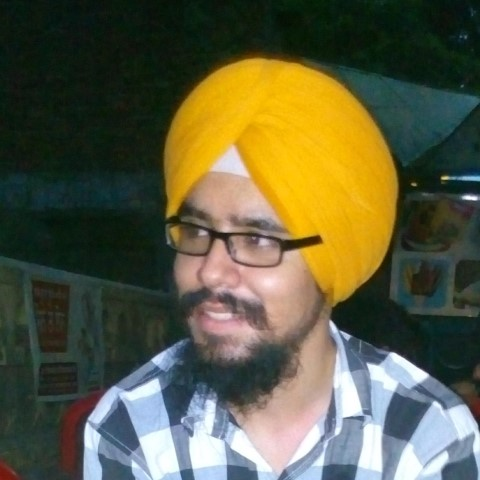
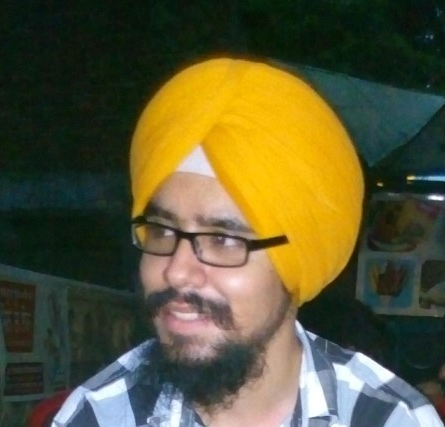
fix sections

diff --git a/index.html b/index.html
@@ -28,7 +28,7 @@
     <section id="home" class="hero_section container change_grid" id="home">
       <div class="hero_description">
         <h1>Rajwinder Singh</h1>
-        <h2>A web Developer</h2>
+        <h3>A web Developer</h3>
         <button class="button_primary">Contact</button>
       </div>
       <div class="image_box">
@@ -47,8 +47,7 @@
           <img
             src="./src/images/Profile-img.jpg"
             alt="Profile pic"
-            height="200px"
-            width="200px"
+            width="100%"
           />
         </div>
         <h2>I’m Rajwinder</h2>
@@ -57,10 +56,10 @@
           during college. My love for creating impactful digital experiences
           drives my dream of becoming a recognized programmer, developing
           applications that make a difference. Here’s a bit more about my
-          journey, skills, and projects!
+          skills, and projects!
         </p>
       </div>
-      <div class="grid grid_col-2">
+      <div class="">
         <div class="icons_block">
           <div class="all_icons">
             <div>
@@ -137,8 +136,94 @@
         </div>
       </div>
     </section>
+    <div class="line container"></div>
     <section id="skills" class="skills_section container">
-      
+      <h2>Skills and Experiences</h2>
+      <div class="grid grid_col-2">
+        <div class="skill_description">
+          <h3>Frontend skills</h3>
+          <p>
+            with expertise in HTML5, CSS3, and JavaScript (ES6+), bringing ideas
+            to life on the web. Skilled in utilizing popular frameworks like
+            jQuery and React for dynamic, interactive experiences, and adept
+            with responsive design through Tailwind CSS and Bootstrap to ensure
+            visually appealing layouts across devices. and have explored
+            creative tools like Figma and Affinity Design
+          </p>
+          <div class="skills_tags">
+            <span class="tag">#html5</span>
+            <span class="tag">#css3</span>
+            <span class="tag">#javascript</span>
+            <span class="tag">#jquery</span>
+            <span class="tag">#tailwindCss</span>
+            <span class="tag">#react</span>
+            <span class="tag">#bootstrap</span>
+            <span class="tag">#netlify</span>
+            <span class="tag">#figma</span>
+            <span class="tag">#affinityDesign</span>
+          </div>
+        </div>
+        <div class="skill_image">
+          <img src="./src/images/computer.gif" alt="image" />
+        </div>
+        <div class="skill_image">
+          <img src="./src/images/backend.gif" alt="image" />
+        </div>
+        <div class="skill_description">
+          <h3>Backend skills</h3>
+          <p>
+            server-side development with PHP, MySQL, and PostgreSQL, enabling
+            robust data management and efficient database interactions. Skilled
+            in building scalable, secure APIs with Node.js and Express,
+            providing seamless backend support for web applications.
+          </p>
+
+          <div class="skills_tags">
+            <span class="tag">#nodejs</span>
+            <span class="tag">#php</span>
+            <span class="tag">#mySql</span>
+            <span class="tag">#postgreSql</span>
+            <span class="tag">#restAPI</span>
+            <span class="tag">#apache</span>
+            <span class="tag">#linux</span>
+            <span class="tag">#cloudflare</span>
+            <span class="tag">#aws</span>
+          </div>
+        </div>
+        <div class="skill_description">
+          <h3>Other skills</h3>
+          <p>
+            Familiar with essential development tools and environments,
+            including Git and GitHub for version control, and Visual Studio Code
+            for efficient code editing. Experienced with npm , debian linux and
+            Apache server. Additionally, I have foundational knowledge in Web3,
+            Motoko as well as libraries like Leaflet for map integration.
+            Familiar with AI tools like ChatGPT and GitHub Copilot for coding
+            assistance and enhancing productivity
+          </p>
+
+          <div class="skills_tags">
+            <span class="tag">#git</span>
+            <span class="tag">#github</span>
+            <span class="tag">#vscode</span>
+            <span class="tag">#leaflet</span>
+            <span class="tag">#msOffice</span>
+            <span class="tag">#debian</span>
+            <span class="tag">#chatgpt</span>
+            <span class="tag">#githubCopilot</span>
+
+          </div>
+        </div>
+        <div class="skill_image">
+          <img src="./src/images/skills.gif" alt="image" />
+        </div>
+      </div>
+      <p class="section_description">
+        With a solid foundation in web applications, I have hands-on experience
+        building projects using HTML, CSS, JavaScript, and backend skills in PHP
+        and MySQL. I find backend development especially fascinating, from
+        creating logical flows to designing efficient SQL databases.
+      </p>
     </section>
     <section id="projects" class="Projects_section container">
       <div>
@@ -277,16 +362,14 @@
             easily accessible.
           </p>
           <div class="Project_links">
-            <a href="https://Keeper.tiven.xyz/" target="_blank" rel="noopener"
-              >[View Project]</a
-            >
+            <a href="/" target="_blank" rel="noopener">[View Project]</a>
             |
-            <a href="#" target="_blank" rel="noopener">[Git Hub]</a>
+            <a href="/" target="_blank" rel="noopener">[Git Hub]</a>
           </div>
         </div>
       </div>
     </section>
-    
+
     <section class="contact_section container"></section>
     <footer class="footer"></footer>
   </body>

diff --git a/src/scss/_about.scss b/src/scss/_about.scss
@@ -1,14 +1,15 @@
 .about_section{
-  height: 90vh;
   display: flex;
   flex-direction: column;
+  gap: 36px;
   flex-shrink: 0 0 0;
+
 }
 .about_section .block {
   display: flex;
   flex-direction: column;
   align-items: center;
-  gap: 24px;
+  gap: 1.5rem;
   width: 70%;
   margin: auto;
   p {
@@ -16,13 +17,13 @@
   }
 }
 .profile_image {
-  height: 200px;
-  width: 200px;
+  height: 12.5rem;
+  width: 12.5rem;
   border-radius: 50%;
-  border: 5px solid $primary_color;
+  border: .3125rem solid $primary_color;
   overflow: hidden;
-  img {
-    transform: translateX(-10px);
+  img{
+    transform: scale(1.1);
   }
 }
 .icons_block {
@@ -34,16 +35,14 @@
   grid-template-columns: repeat(9, 1fr);
   align-items: center;
   justify-content: center;
-  gap: 20px;
+  gap: 1.25rem;
+  padding-top: 24px;
+  
   div {
-    width: 60px;
-    height: 40px;
+    width: 3.75rem;
+    height: 2.5rem;
     align-self: center;
     justify-self: center;
-  }
-  div::after {
-    content: '';
-    background-color: red;
   }
   h2 {
     grid-column: 1/-1;

diff --git a/src/scss/_skills.scss b/src/scss/_skills.scss
@@ -1,3 +1,43 @@
+.skills_section {
+  .grid {
+    gap: 5.3125rem;
+    grid-auto-rows: 1fr;
+    padding: 1.5rem;
+  }
+  h2 {
+    text-align: center;
+    }
+  }
+  img {
+    width: 100%;
+  }
+  .section_description{
+    width: 70%;
+    margin: 2.75rem auto;
+    justify-content: center;
+    text-align: center;
 
+  }
 
-// For odd-numbered images, start in the first column
+.skill_image {
+  width: 31.25rem;
+  height: 18.75rem;
+  object-fit: cover;
+  overflow: hidden;
+  align-items: center;
+  display: flex;
+}
+.skill_image:nth-child(even){
+    justify-self: end;
+}
+.skill_image:last-child img{
+    transform: scale(1.07);
+}
+.skill_description {
+  display: flex;
+  flex-direction: column;
+  gap: 1.5rem;
+}
+.skills_tags{
+  
+}

diff --git a/src/scss/_base.scss b/src/scss/_base.scss
@@ -16,10 +16,10 @@ $color-grey-dark-1: #615551; // Normal text
 $color-grey-dark-2: #918581; // Lighter text
 
 
-$bp-large: 78.15em; // 1250px
-$bp-medium: 61.25em; // 980px
-$bp-small: 37.5em; // 600px
-$bp-smallest: 31.25em; // 500px
+$bp-large: 78.15em; // 78.125rem
+$bp-medium: 61.25em; // 61.25rem7
+$bp-small: 37.5em; // 37.5rem
+$bp-smallest: 31.25em; // 31.25rem
 *,
 *::before,
 *::after {
@@ -39,4 +39,15 @@ body {
 }
 p{
   line-height: 1.5;
+}
+h1{
+  font-size: 48px;
+}
+h2{
+  color: $primary_color;
+  font-size: 32px;
+}
+h3{
+  font-size: 24px;
+  color: $color-grey-dark-1;
 }

diff --git a/src/scss/_components.scss b/src/scss/_components.scss
@@ -13,7 +13,7 @@
   }
 }
 .container {
-  margin: 1.5rem 1.5rem 98px 1.5rem;
+  margin: 1.5rem 1.5rem 6.125rem 1.5rem;
 }
 .grid {
   display: grid;
@@ -28,4 +28,21 @@
 }
 .grid_col-1{
   grid-template-columns: 1fr;
+}
+.line{
+  border: 1px solid $color-grey-light-3;
+}
+.tag {
+  display: inline-block;
+  border-radius: 3px;
+  padding: .2em .5em .3em;
+  border-radius: 2px;
+  background: $secondary_color;
+  color: white;
+  font-weight: 600;
+  margin: .25em .1em;
+  cursor: default;
+  &:hover{
+    background-color: $primary_color;
+  }
 }

diff --git a/src/scss/_hero.scss b/src/scss/_hero.scss
@@ -6,8 +6,8 @@
     background-color: $secondary_color;
     color: $secondary_text;
     position: relative;
-    height: 80vh;
-    // padding-left:  54px;
+    min-height: 80vh;
+    // padding-left:  3.375rem;
     overflow: hidden;
     .image_box{
       position: absolute; 
@@ -25,7 +25,6 @@
     flex-direction: column;
     gap: 1.5rem;
     h1 {
-      font-size: 3.5rem;
       line-height: 1;
     }
   }

diff --git a/src/scss/_project.scss b/src/scss/_project.scss
@@ -30,11 +30,9 @@
     width: 100%;
     border: .0625rem solid $color-grey-dark-2;
   }
-  h3{
-    color: $primary_color;
-  }
+
   &:hover{
-    box-shadow: 0 1px 5px 0px $color-grey-dark-1;
+    box-shadow: 0 .0625rem .3125rem 0rem $color-grey-dark-1;
     transform: scale(1.01) 
   }
 }
